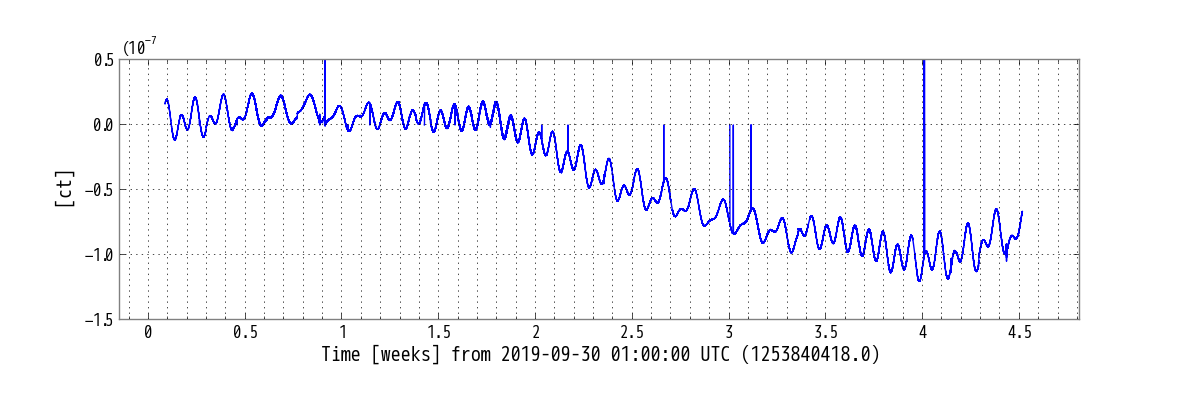
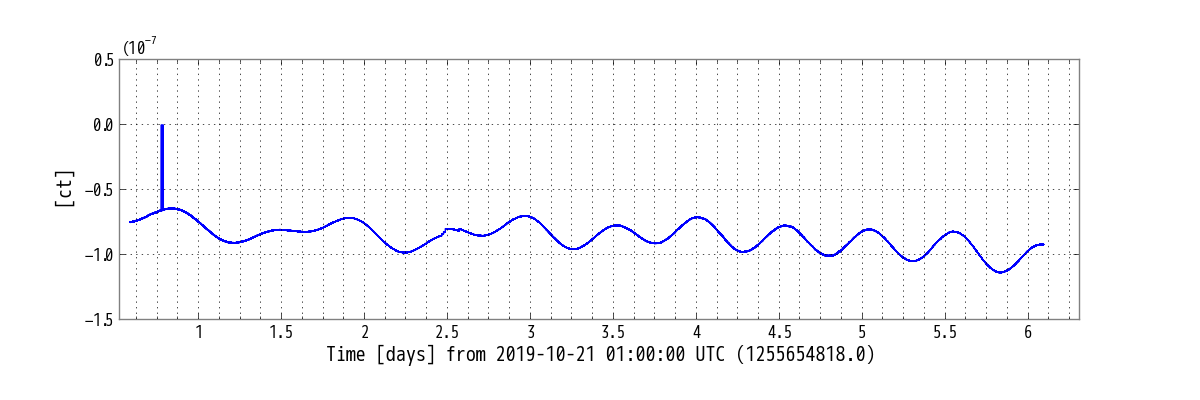
Update

diff --git a/ugm/strainmeter/main.py b/ugm/strainmeter/main.py
@@ -20,8 +20,8 @@ def nan_helper(y):
 
 start = tconvert('Nov 18 2019 00:00:00 JST')
 end   = tconvert('Nov 21 2019 00:00:00 JST')
-start = tconvert('Oct 01 2019 00:00:00 JST')
-end   = tconvert('Nov 01 2019 00:00:00 JST')
+start = tconvert('Oct 22 2019 00:00:00 JST')
+end   = tconvert('Oct 27 2019 12:00:00 JST')
 chname = ['K1:GIF-X_STRAIN_OUT_DQ.mean']
 fnamelist = existedfilelist(start,end,trend='second')
 print(fnamelist)
